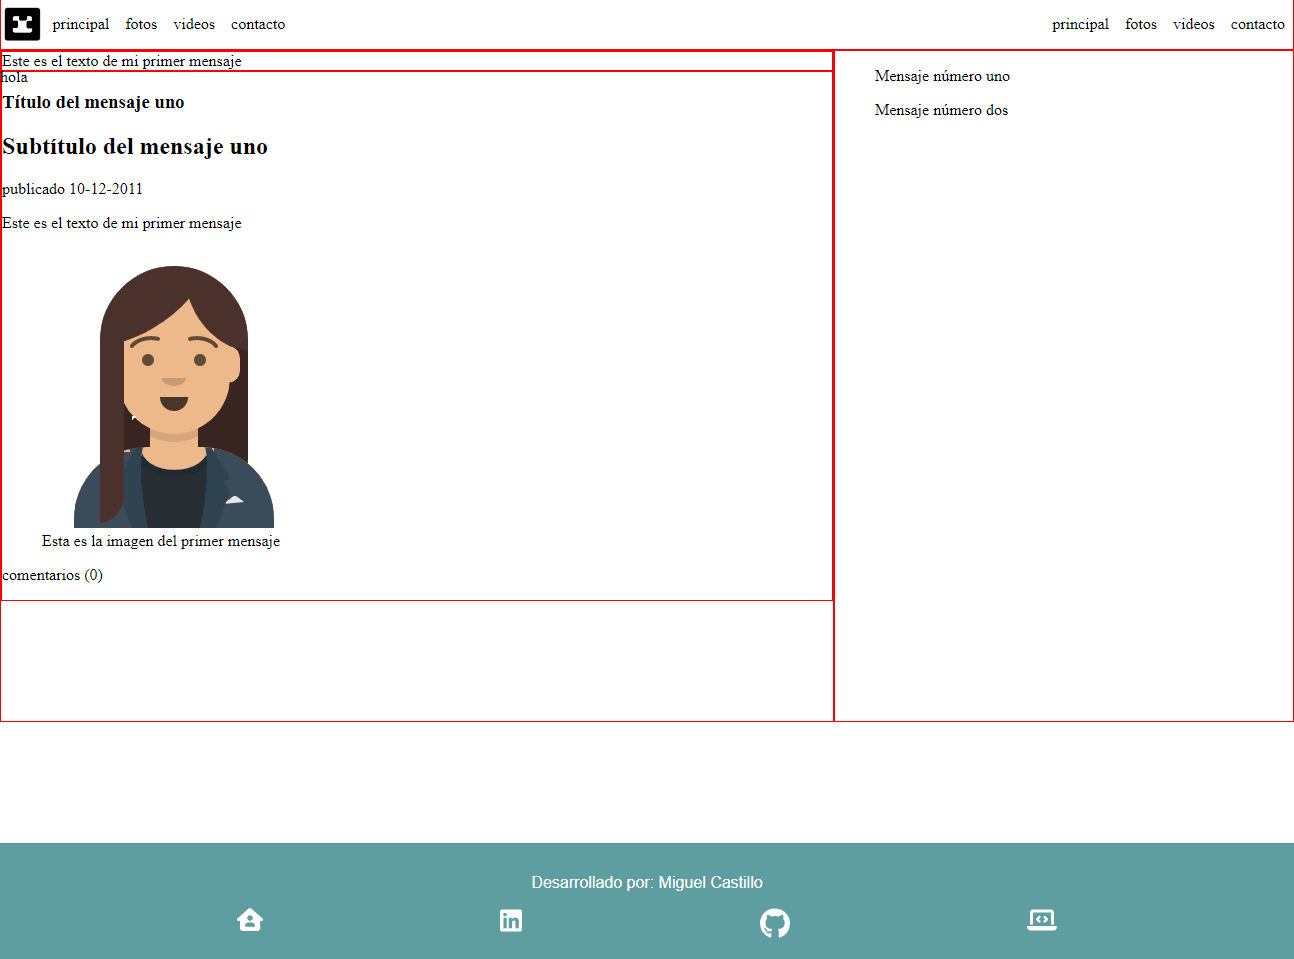
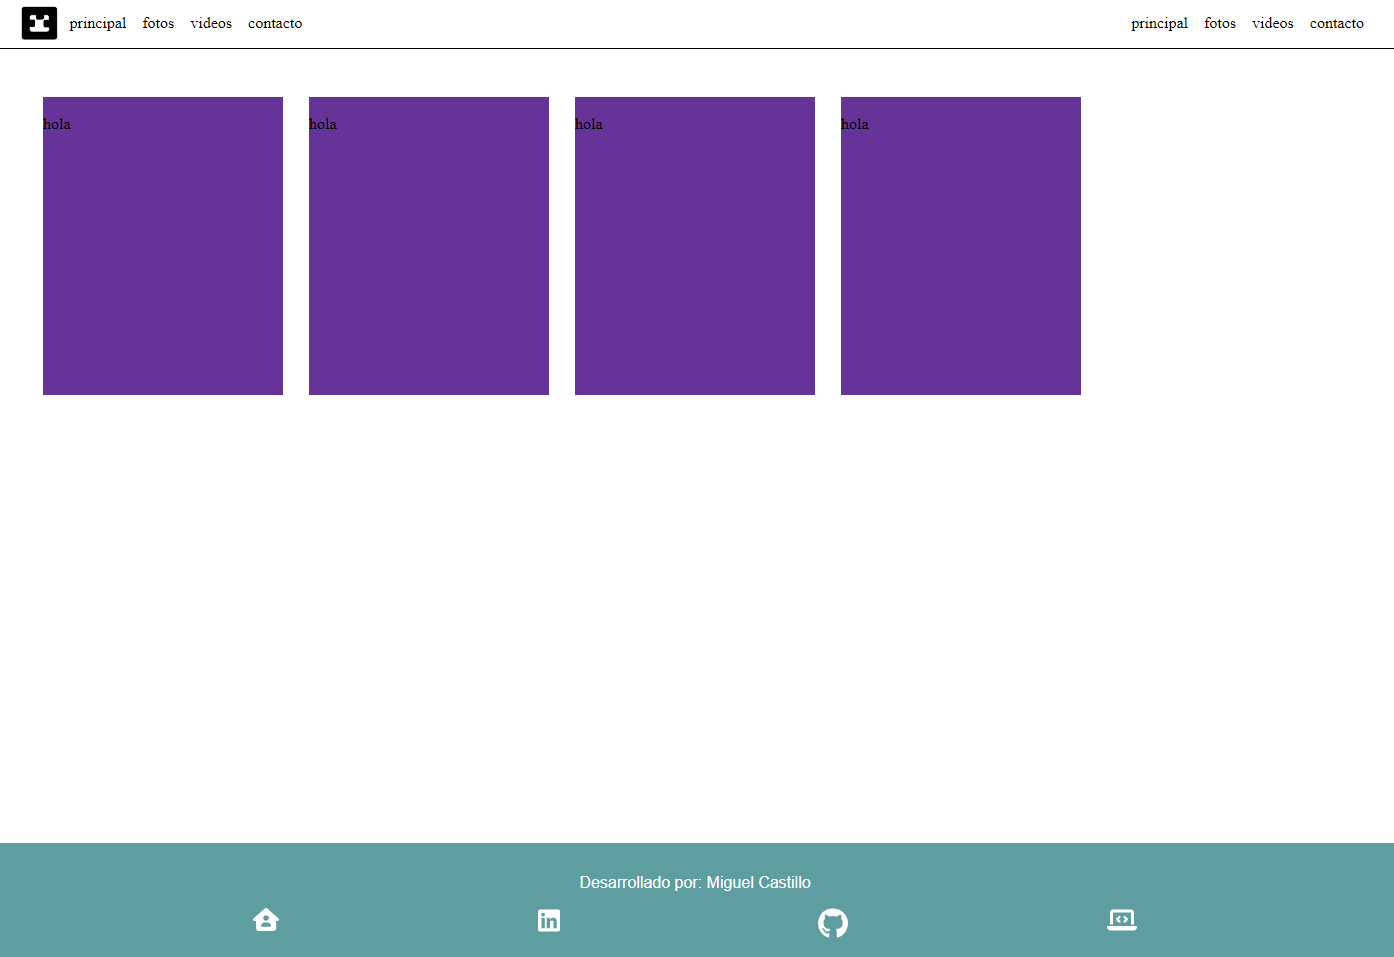
02

diff --git a/01-2/index.html b/01-2/index.html
@@ -1,6 +1,5 @@
 <!DOCTYPE html>
 <html lang="es">
-
 <head>
     <meta charset="UTF-8">
     <meta http-equiv="X-UA-Compatible" content="IE=edge">
@@ -9,11 +8,10 @@
     <title>Document</title>
     <link rel="stylesheet" href="./style.css">
 </head>
-
 <body>
     <div class="contenedor">
         <header class="main-header">
-            <nav class="item navbar__content">
+            <nav class="navbar__content">
                 <div class="navbar-left">
                     <img class="logo" src="https://raw.githubusercontent.com/r32mcastillo/reactpractico/main/src/assets/logos/log.png" />
                     <ul>
@@ -33,38 +31,22 @@
                 </div>
             </nav>
         </header>
-        <section class="item">
-            <article class="item">
-                Este es el texto de mi primer mensaje
-            </article>
-            <article class="item">
-                <header>
-                    <hgroup>
-                        <h1>Título del mensaje uno</h1>
-                        <h2>Subtítulo del mensaje uno</h2>
-                    </hgroup>
-                    <p>publicado 10-12-2011</p>
-                </header>
-                Este es el texto de mi primer mensaje
-                <figure>
-                    <img src="https://avataaars.io/">
-                    <figcaption>
-                        Esta es la imagen del primer mensaje
-                    </figcaption>
-                </figure>
-                <footer>
-                    <p>comentarios (0)</p>
-                </footer>
-            </article>
+    
 
-        </section>
-        <aside class="item">
-            <blockquote>Mensaje número uno</blockquote>
-            <blockquote>Mensaje número dos</blockquote>
-        </aside>
-
-        <section>
+        <section class="main-container">
             <div class="ProductList">
+                <div class="ProductItem">
+                    <img src="" alt="">
+                    <div class="product-info">hola</div>
+                </div>
+                <div class="ProductItem">
+                    <img src="" alt="">
+                    <div class="product-info">hola</div>
+                </div>
+                <div class="ProductItem">
+                    <img src="" alt="">
+                    <div class="product-info">hola</div>
+                </div>
                 <div class="ProductItem">
                     <img src="" alt="">
                     <div class="product-info">hola</div>
@@ -97,6 +79,13 @@
             </ul>
         </footer>
     </div>
+    
+        <!--loader-->
+        <section class="loader">
+            <div></div>
+            <div></div>
+            <div></div>
+        </section>
 </body>
 
 </html>

diff --git a/01-2/style.css b/01-2/style.css
@@ -7,10 +7,9 @@ body {
     display: grid;
     grid-template-rows: min-content auto min-content;
     grid-template-areas:
-        "header header header"
-        "section section aside"
-        "section section aside"
-        "footer footer footer";
+        "header"
+        "section"
+        "footer";
     /*  place-content: center; */
     min-height: 100vh;
 }
@@ -24,15 +23,11 @@ header {
     height: fit-content;
 }
 
-section {
+.main-container {
     grid-area: section;
 }
 
-aside {
-    grid-area: aside;
-}
-
-footer {
+.main-footer {
     grid-area: footer;
 }
 
@@ -69,18 +64,24 @@ footer {
 .navbar__content {
     display: flex;
     justify-content: space-between;
+    padding: 4px 24px;
+    border-bottom: solid 0.5px;
 }
 
-.navbar-left {
+.navbar-left ,.navbar-right {
     display: flex;
     align-items: center;
 }
 
+.navbar-left ul,
+.navbar-right ul {
+    margin: 0;
+}
 .navbar-left ul li a,
 .navbar-right ul li a {
     text-decoration: none;
     color: #000;
-    padding: 8px;
+    padding: 0 8px;
 }
 
 /* ./Nav */
@@ -103,9 +104,83 @@ footer {
     padding-top: 15px;
     color: #fff;
 }
+/*./footer*/
+.ProductList{
+    display: grid;
+    grid-template-columns: repeat(auto-fill,240px);
+    place-content: center;
+    gap:26px;
+    padding: 3em 0;
 
+}
+.ProductItem {
+    width: 240px;
+    height: 298px;
+    background: rebeccapurple;
+}
+/*loader*/
+.loader{
+    width: 100%;
+    height: 100%;
+    background: black;
+    position: absolute;
+    top: 0;
+    display: flex;
+    justify-content: center;
+    align-items: center;
+    animation: loader 2s linear forwards;
+}
+@keyframes loader {
+    0% {
+        opacity: 1;
+        visibility: visible;
+    }
+
+    95% {
+        opacity: 1;
+        visibility: visible;
+    }
+
+    100% {
+        opacity: 0;
+        visibility: hidden;
+    }
+}
+.loader div{
+    background: white;
+    width: 40px;
+    height: 40px;
+    border-radius: 50%;
+    margin: 10px;
+    transform: scale(0);
+    animation: scaling 2s ease-in-out infinite;
+}
+.loader div:nth-child(1) {
+    animation-delay: 0.2s;
+}
+
+.loader div:nth-child(2) {
+    animation-delay: 0.4s;
+}
+
+.loader div:nth-child(3) {
+    animation-delay: 0.6s;
+}
+
+@keyframes scaling {
+
+    0%,
+    100% {
+        transform: scale(0);
+    }
+
+    40% {
+        transform: scale(1);
+    }
+}
+/*./loader*/
 @media (max-width: 800px) {
-    .main-header,.item{
+    .navbar-left ul , .navbar-right {
         display: none;
     }
 }

diff --git a/01-2/readme.md b/01-2/readme.md
@@ -5,3 +5,5 @@
 <div align="center">
   <img src="img/demo1.png" alt="logo" width="70%" height="auto" />
 </div>
+
+[Demo](https://r32mcastillo.github.io/plantillas-html/01-2/)
